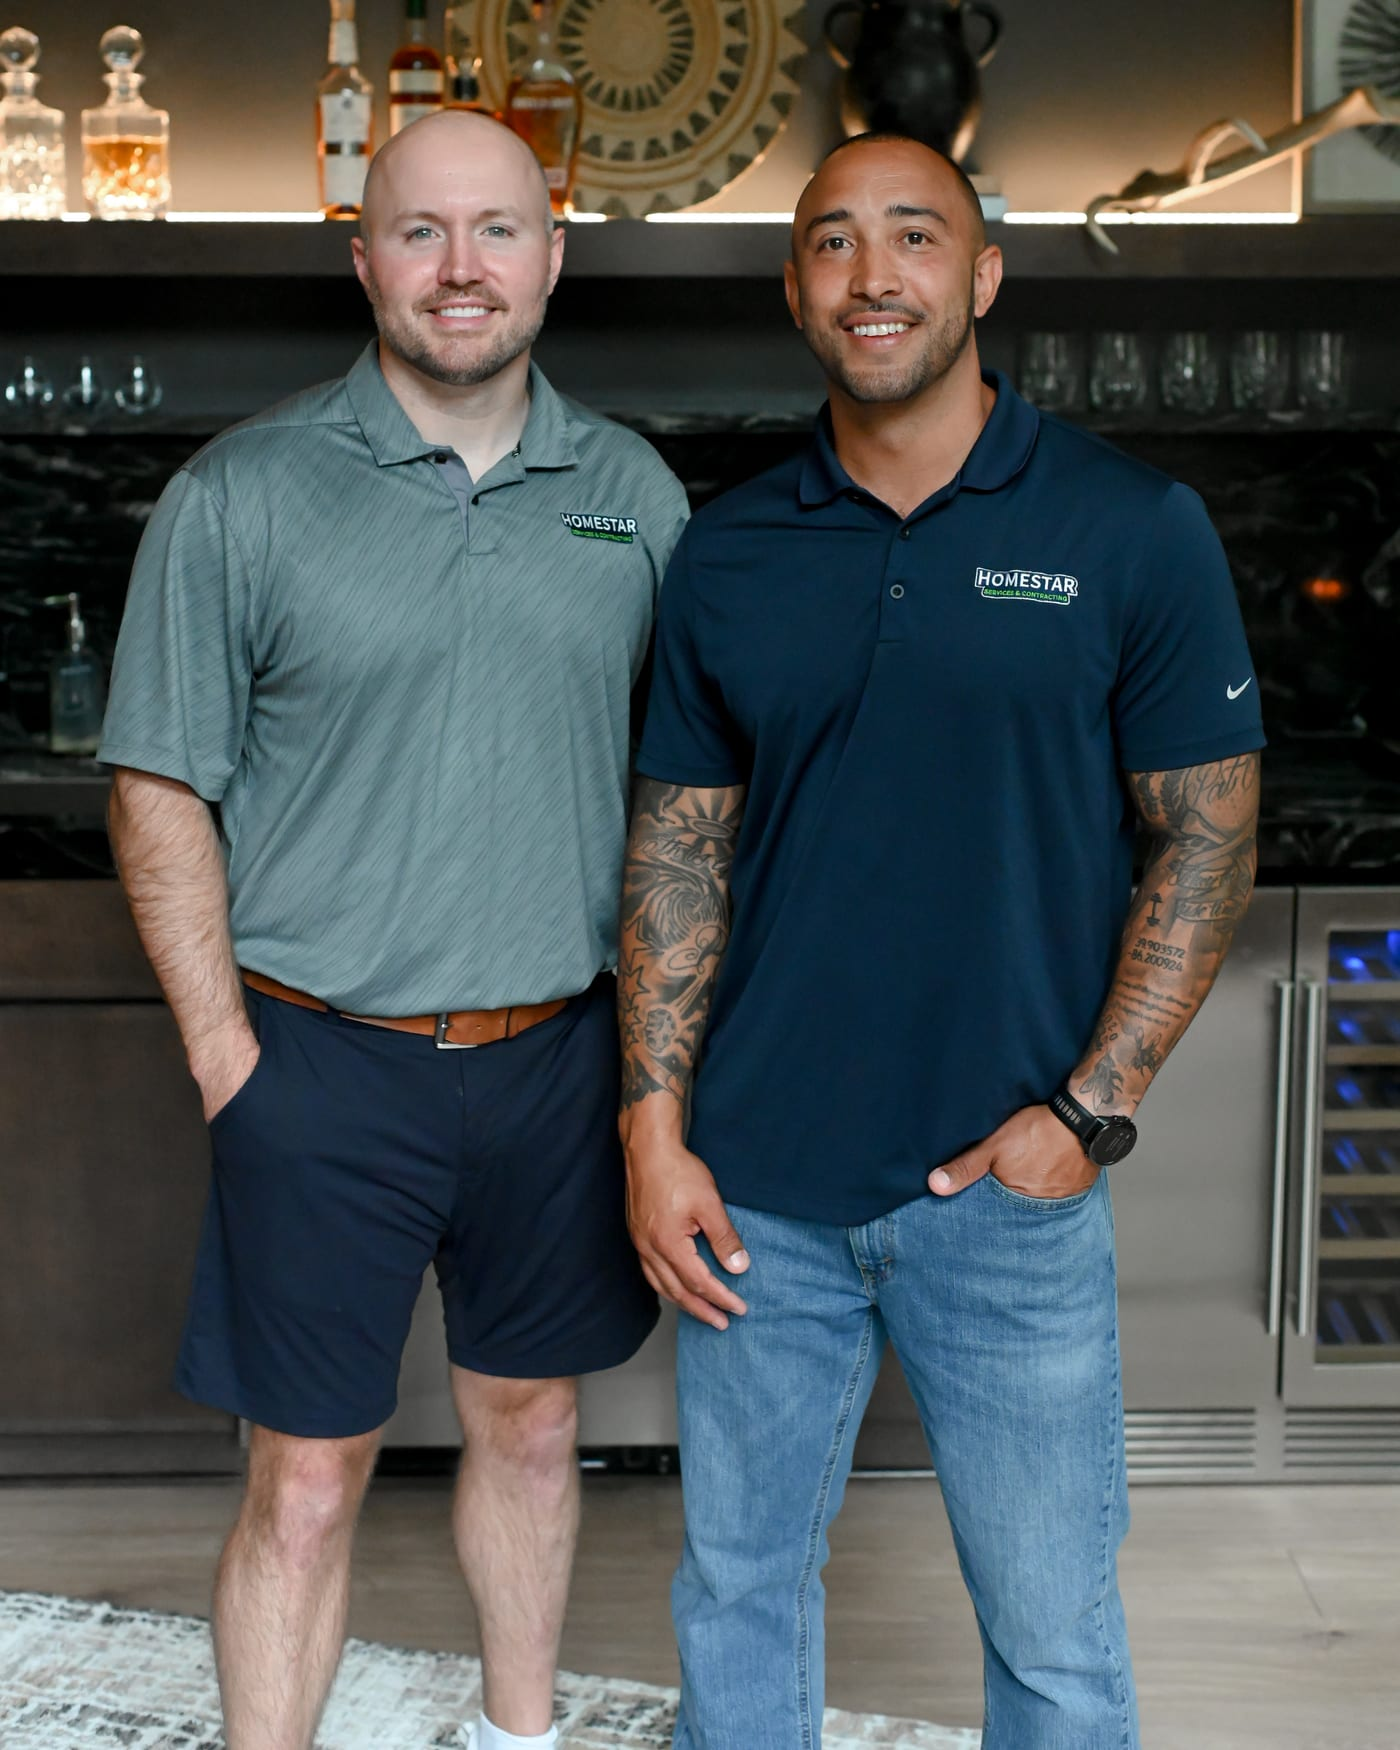
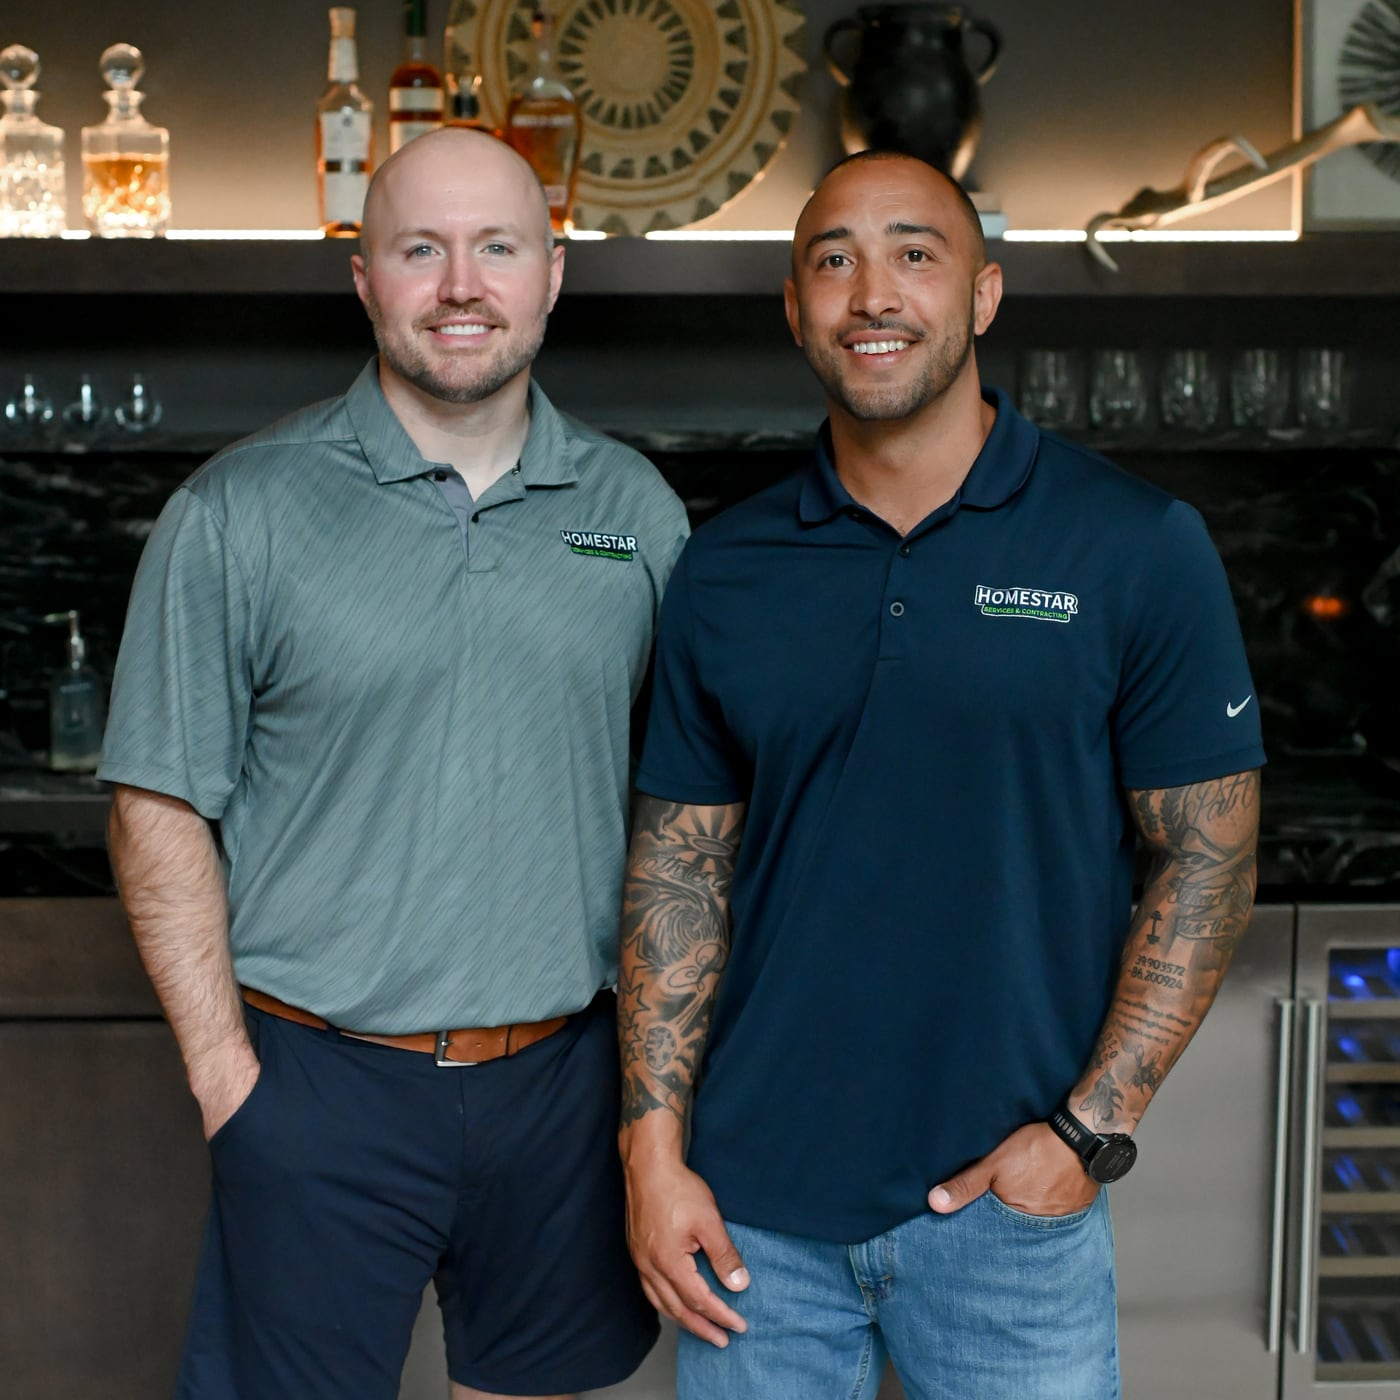
Team page: broaden Robb's summary, drop the stat row, stop cropping the founders
Three changes from Eric's review.

Robb's line in the Quick Answer now covers construction quality, the overall
client experience, and the real estate perspective from nearly 10 years as a
licensed agent and investor - previously it only said quality and resale value.

Removes the four-stat row under the hero headline. It was excessive, and every
figure in it already appears in the Quick Answer and credentials sections.

Fixes the founders photo getting cut off at some window sizes. The cell sits
beside a text column, so its height is set by the copy, not the picture - on a
wide screen that made it short and wide, and a 4:5 portrait cropped through
their heads. Re-cropped the source to a square framed knee-up, anchored the
focal point at 24% so faces stay in frame when the box is short, and gave the
stacked layout a true 1:1 so nothing is cropped at all on mobile. Also holds a
height floor between 861 and 1180px, where the text column runs longest and
squeezed the photo hardest.

Verified at 390, 880, 1024 and 1920: both faces fully visible with headroom at
every width.

Section order is unchanged - group photo, then founders, then the founders
feature band.

diff --git a/src/App.jsx b/src/App.jsx
@@ -1017,10 +1017,13 @@ body{font-family:'Plus Jakarta Sans',sans-serif;color:${C.text};overflow-x:hidde
   .team-row>div{order:unset!important}
   .team-row>div:first-child{max-width:420px;margin:0 auto;width:100%}
   .team-split{grid-template-columns:1fr!important}
-  .team-split img{max-height:420px!important}
+  /* Stacked: let the square photo be square rather than a cropped letterbox. */
+  .team-split-img{aspect-ratio:1/1;height:auto!important;max-height:none!important;min-height:0!important;object-position:center 22%!important}
 }
-@media(max-width:560px){
-  .team-stats{grid-template-columns:1fr 1fr!important;gap:26px 18px!important}
+/* Between tablet and desktop the text column is tallest, which squeezes the photo
+   cell widest-and-shortest. Hold a floor so faces never get clipped. */
+@media(min-width:861px) and (max-width:1180px){
+  .team-split-img{min-height:460px!important}
 }
 `;
 
@@ -4480,13 +4483,6 @@ function TeamPage(){
           </div>
           <h1 className="display fu d2" style={{color:"#fff",fontSize:"clamp(32px,5.4vw,52px)",lineHeight:1.08,marginBottom:20,letterSpacing:"-.01em"}}>Meet the HomeStar Team</h1>
           <p className="fu d3" style={{color:"rgba(255,255,255,.58)",fontSize:"clamp(16px,1.9vw,18.5px)",lineHeight:1.65,maxWidth:660,margin:"0 auto"}}>A remodel is only ever as good as the people running it. These are the people who price your project, schedule your trades, pick up the phone, and stand in your house until the work is right.</p>
-          <div className="fu d4 team-stats" style={{display:"grid",gridTemplateColumns:"repeat(4,1fr)",gap:18,maxWidth:720,margin:"44px auto 0"}}>
-            {[{n:"100+",l:"Projects completed"},{n:"5.0",l:"Rating · 78 reviews"},{n:"20+",l:"Years Eric & Robb"},{n:"Pro",l:"Schluter Certified"}].map(s=>
-              <div key={s.l} style={{textAlign:"center"}}>
-                <div className="display" style={{color:"#fff",fontSize:"clamp(22px,3vw,30px)",lineHeight:1,marginBottom:7}}>{s.n}</div>
-                <div style={{color:"rgba(255,255,255,.42)",fontSize:11.5,fontWeight:600,letterSpacing:".04em"}}>{s.l}</div>
-              </div>)}
-          </div>
         </div>
       </section>
 
@@ -4507,7 +4503,7 @@ function TeamPage(){
         <div style={{maxWidth:820,margin:"0 auto"}}>
           <div style={{background:C.cream,border:`1px solid ${C.sand}`,borderRadius:18,padding:"clamp(26px,4vw,36px)"}}>
             <div className="lab" style={{marginBottom:12}}>Quick Answer</div>
-            <p style={{color:C.navy,fontSize:"clamp(15.5px,1.8vw,17px)",lineHeight:1.8,margin:0,fontWeight:500}}>HomeStar Services &amp; Contracting is co-owned by <strong>Eric Farr</strong> and <strong>Robb Rice</strong>, friends of more than 20 years, and based in Fishers, Indiana. Eric leads estimating, planning and client relationships; Robb focuses on construction quality and resale value. <strong>Kristina W.</strong>, Director of Operations, previously owned her own remodeling business and runs jobsite operations and trade coordination. <strong>Summer S.</strong>, Project Coordinator, brings nearly 10 years in residential design and carries projects from concept through completion. The company is Schluter Pro Certified, licensed and insured, BBB accredited, and has completed 100+ projects across Hamilton County, Indiana.</p>
+            <p style={{color:C.navy,fontSize:"clamp(15.5px,1.8vw,17px)",lineHeight:1.8,margin:0,fontWeight:500}}>HomeStar Services &amp; Contracting is co-owned by <strong>Eric Farr</strong> and <strong>Robb Rice</strong>, friends of more than 20 years, and based in Fishers, Indiana. Eric leads estimating, planning and client relationships; Robb focuses on construction quality, the overall client experience, and the real estate perspective he brings from nearly 10 years as a licensed agent and investor. <strong>Kristina W.</strong>, Director of Operations, previously owned her own remodeling business and runs jobsite operations and trade coordination. <strong>Summer S.</strong>, Project Coordinator, brings nearly 10 years in residential design and carries projects from concept through completion. The company is Schluter Pro Certified, licensed and insured, BBB accredited, and has completed 100+ projects across Hamilton County, Indiana.</p>
           </div>
         </div>
       </section>
@@ -4522,7 +4518,10 @@ function TeamPage(){
       {/* Founders together — full-bleed split, image to the edge */}
       <section style={{background:C.navyDark,overflow:"hidden"}}>
         <div className="team-split" style={{display:"grid",gridTemplateColumns:"minmax(0,1fr) minmax(0,1fr)",alignItems:"stretch"}}>
-          <img src="/images/team-founders.jpg" alt="HomeStar co-founders Eric Farr and Robb Rice in a finished basement bar in Zionsville, Indiana" loading="lazy" width="1400" height="1750" style={{width:"100%",height:"100%",objectFit:"cover",display:"block",minHeight:340,maxHeight:640}}/>
+          {/* Square source + a face-biased focal point. The cell's height is driven by the
+              text column beside it, so it can end up short and wide on large screens; anchoring
+              at 24% keeps both faces in frame instead of cropping heads off. */}
+          <img className="team-split-img" src="/images/team-founders.jpg" alt="HomeStar co-founders Eric Farr and Robb Rice in a finished basement bar in Zionsville, Indiana" loading="lazy" width="1400" height="1400" style={{width:"100%",height:"100%",objectFit:"cover",objectPosition:"center 24%",display:"block",minHeight:400,maxHeight:660}}/>
           <div style={{padding:"clamp(40px,6vw,76px) clamp(26px,5vw,64px)",display:"flex",flexDirection:"column",justifyContent:"center"}}>
             <div className="lab" style={{marginBottom:12}}>Why HomeStar Exists</div>
             <h2 className="display" style={{color:"#fff",fontSize:"clamp(24px,3.4vw,34px)",lineHeight:1.15,margin:"0 0 20px"}}>Two friends, one standard</h2>
